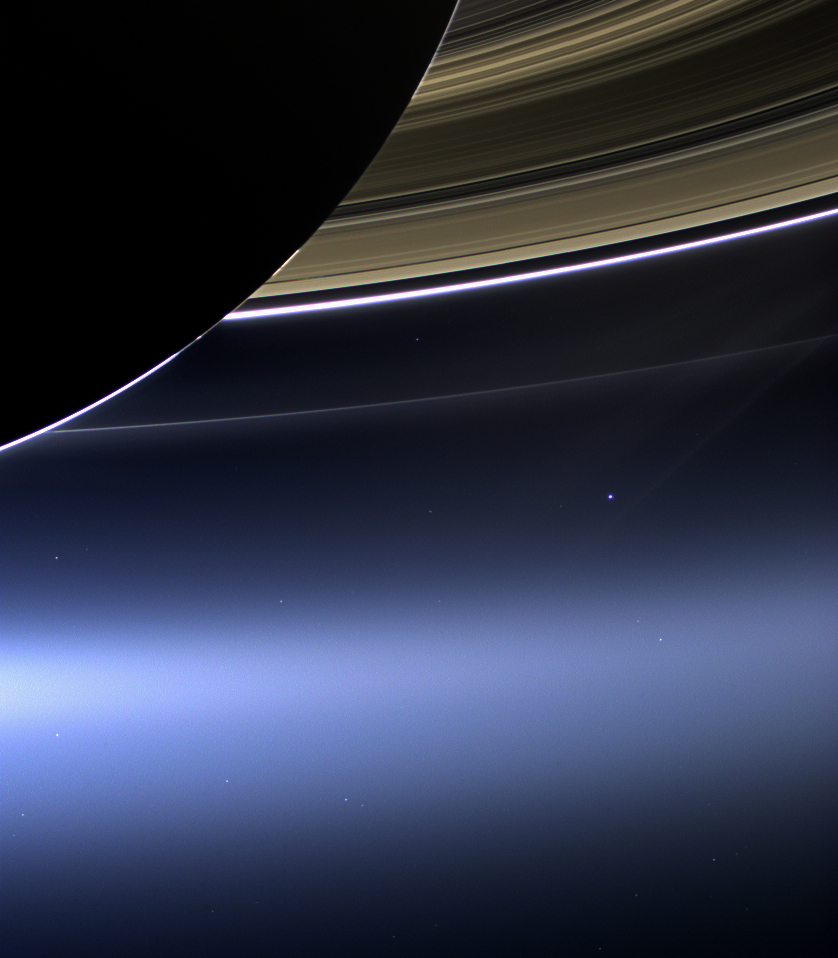
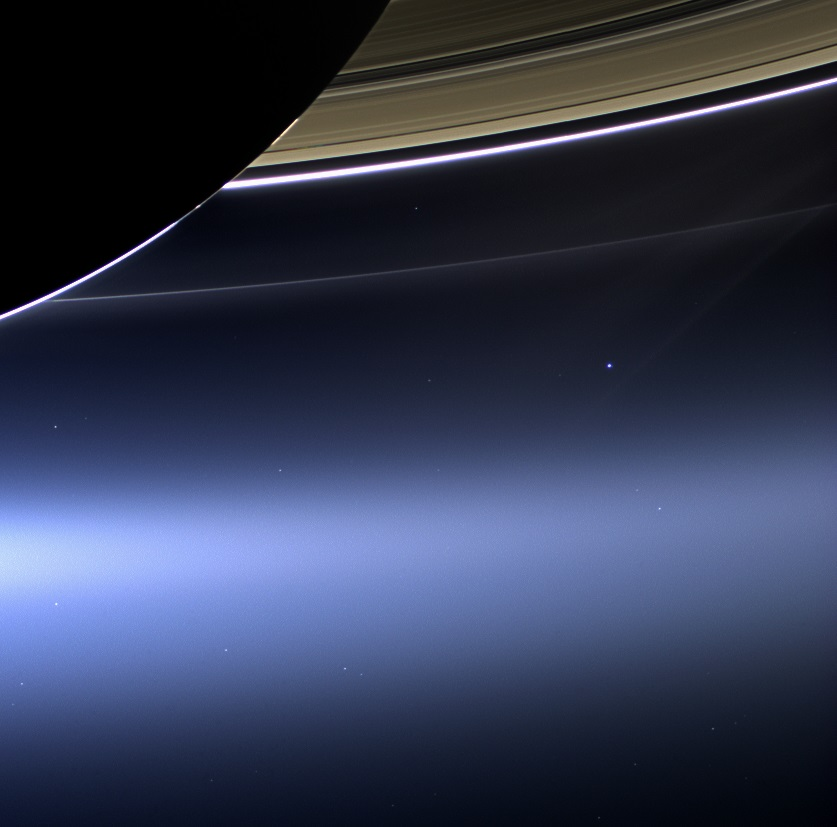
updates site background

diff --git a/index.html b/index.html
@@ -12,13 +12,14 @@
     <script src="https://code.jquery.com/jquery-3.5.1.min.js" integrity="sha256-9/aliU8dGd2tb6OSsuzixeV4y/faTqgFtohetphbbj0=" crossorigin="anonymous"></script>
     <script type="text/javascript">
         $(function(){ $("head").load("head.html") });
+        $(function(){ $("#about-me").load("./subsections/about-me.html") });
         $(function(){ $("#resume").load("./subsections/resume.html") });
         $(function(){ $("#cv").load("./subsections/cv.html") });
         $(function(){ $("#coursework").load("./subsections/coursework.html") });
         $(function(){ $("#contact").load("./subsections/contact.html") });
    </script>
   </head>
-  <body>
+  <body class="body-background">
     <div class="container" role="main">
         <div class="head-buffer">
             <div class="text-center">
@@ -36,14 +37,14 @@
 
                 <!-- NAVIGATION TABS -->
                 <ul class="nav nav-tabs nav-justified">
+                   <!-- About me -->
+                   <li class="nav-item active">
+                     <a class="nav-link pill-link active" data-toggle="tab" href="#about-me">About Me</a>
+                   </li>
                   <!-- Resume -->
-                  <li class="nav-item active ">
-                    <a class="nav-link pill-link active" data-toggle="tab" href="#resume">Resume</a>
+                  <li class="nav-item">
+                    <a class="nav-link pill-link" data-toggle="tab" href="#resume">Resume</a>
                   </li>
-                  <!-- CV -->
-                  <!-- <li class="nav-item">
-                    <a class="nav-link pill-link" data-toggle="tab" href="#cv">Full CV</a>
-                  </li> -->
                   <!-- Coursework -->
                   <li class="nav-item">
                     <a class="nav-link pill-link" data-toggle="tab" href="#coursework">Coursework</a>
@@ -57,7 +58,9 @@
             </div>
             <!-- TAB CONTENT -->
             <div id="tab_data" class="tab-content">
-              <div class="tab-pane container fade-in-fast active" id="resume">
+              <div class="tab-pane container fade-in-fast active" id="about-me">
+              </div>
+              <div class="tab-pane container fade-in-fast" id="resume">
               </div>
               <div class="tab-pane container fade-in-fast" id="cv">
               </div>
@@ -71,13 +74,12 @@
 
     </div>
 
+    <footer class="hidden-print">
+      <script type="text/javascript">
+        $(function(){$("footer").load("footer.html");});
+      </script>
+    </footer>
   </body>
 
-
-  <footer class="hidden-print">
-    <script type="text/javascript">
-      $(function(){$("footer").load("footer.html");});
-    </script>
-  </footer>
 
 </html>

diff --git a/subsections/carousel.html b/subsections/carousel.html
@@ -1,0 +1,37 @@
+<div id="demo" class="carousel slide" data-ride="carousel">
+  <ul class="carousel-indicators">
+    <li data-target="#demo" data-slide-to="0" class="active"></li>
+    <li data-target="#demo" data-slide-to="1"></li>
+    <li data-target="#demo" data-slide-to="2"></li>
+  </ul>
+  <div class="carousel-inner">
+    <div class="carousel-item active">
+      <img src="assets/ip.png" alt="Los Angeles" width="1100" height="500">
+      <div class="carousel-caption d-none d-md-block bg-dark mb-4">
+        <h3>Developing Software for Scientists</h3>
+        <p>A lack of software education in science can hold back research.
+            Learn about how I address this through my python library <i><b>ImagePypelines</b></i></p>
+      </div>
+    </div>
+    <div class="carousel-item">
+      <img src="assets/pale_blue_dot.jpg" alt="Chicago" width="1100" height="500">
+      <div class="carousel-caption d-none d-md-block bg-dark mb-4">
+        <h3>Chicago</h3>
+        <p>Thank you, Chicago!</p>
+      </div>
+    </div>
+    <div class="carousel-item">
+      <img src="assets/pale_blue_dot.jpg" alt="New York" width="1100" height="500">
+      <div class="carousel-caption d-none d-md-block bg-dark mb-4">
+        <h3>New York</h3>
+        <p>We love the Big Apple!</p>
+      </div>
+    </div>
+  </div>
+  <a class="carousel-control-prev" href="#demo" data-slide="prev">
+    <span class="carousel-control-prev-icon"></span>
+  </a>
+  <a class="carousel-control-next" href="#demo" data-slide="next">
+    <span class="carousel-control-next-icon"></span>
+  </a>
+</div>

diff --git a/subsections/about-me.html b/subsections/about-me.html
@@ -1,0 +1,36 @@
+
+<div class="container about-me head-buffer">
+    <!-- General -->
+    <div class="row">
+        <!-- image -->
+        <div class="col-md-4">
+            <img class='proj-image' src="assets/telescope.jpg" alt="ImagePypelines">
+        </div>
+        <!-- image -->
+        <div class="col-md-8 about-me-blurb">
+            <p> 
+                I've love exoplanets! I've wanted to study them since I was in high school
+            <i>(back in the days when there weren't even 500 confirmed exoplanets)</i>.
+                I've tailored my academics towards this goal. I made a custom degree
+            at RIT for Experimental Astrophysics, where I take a combination of
+            <a>imaging science and physics courses</a>.
+            </p>
+            <p>
+                I'm a specialist in imaging and software design, and want to
+                put it to use in astronomy!
+            </p>
+            <p>
+                I'm a little older than most undergrads (24), and I've spent 3 years
+            working alongside school. I've developed processing pipelines and
+            a NIR spectrometer for an asteroid mining company, a machine learning
+            framework for a rochester imaging company, and spent a year developing
+            pipelines and instruments for a lab at the University of Rochester.
+            <i>(see my resume for details)</i>
+            </p>
+            <p>
+                I feel strongly about
+            </p>
+        </div>
+
+    </div>
+</div>

diff --git a/css/custom.css b/css/custom.css
@@ -1,7 +1,7 @@
 img {
     display: block;
-    max-width:324px;
-    max-height:324px;
+    /* max-width:324px;
+    max-height:324px; */
     width: auto;
     height: auto;
     margin: auto;
@@ -11,9 +11,62 @@ h2 span {
     display: block;
 }
 
+
+
+.about-me {
+    font-size: 15px;
+}
+
+.about-me-blurb {
+  text-indent: 2em;
+  line-height: 1.6;
+}
+
+.body-background {
+    /* background-image: 'assets/pale_blue_dot.jpg'; */
+    /* background: #212529; */
+    background-image: url("../assets/pale_blue_dot.jpg");
+    background-repeat: no-repeat;
+    background-size: cover;
+}
+
+.copyright-footer {
+    color: #fcfcfc;
+}
+
+.container {
+    background: #fcfcfc;
+}
+
+.carousel-caption {
+    position: relative;
+    left: 0;
+    top: 0;
+}
+
 .proj {
     padding-left: 2%;
     padding-bottom: 1vh;
+}
+
+.proj-image {
+    height:100%;
+    width:100%;
+}
+
+.carousel-inner img {
+    width: 100%;
+    height: 40%;
+    max-height: 643px;
+    display: block;
+    border-color: #d9230f;
+    border-width: 2px;
+    border-style: solid;
+  }
+
+.carousel-item {
+    /* background-color: #a6a19f; */
+    /* height: 60vh; */
 
 }
 
@@ -62,6 +115,10 @@ h2 span {
 
 .head-buffer {
     padding-top: 3vh
+}
+
+.bottom-buffer {
+    padding-bottom: 3vh
 }
 
 .head-buffer-2 {

diff --git a/subsections/resume.html b/subsections/resume.html
@@ -1,5 +1,10 @@
-
 <div class="resume">
+    <!-- Carousel -->
+    <!-- <div id='proj-carousel'>
+        <script>$(function(){ $("#proj-carousel").load("./subsections/carousel.html") });</script>
+    </div> -->
+
+    <!-- Download Button -->
     <div class="resume-button-container">
         <a class="btn btn-primary" href="assets/Jeff-Maggio-Resume.pdf" role="button">Download as PDF</a>
 

diff --git a/subsections/contact.html b/subsections/contact.html
@@ -1,5 +1,5 @@
 <!-- EMAIL -->
-<div class="head-buffer container">
+<div class="head-buffer bottom-buffer container">
 
     <div class="row head-buffer justify-content-md-center">
 
@@ -26,7 +26,7 @@
             </div>
         </div>
     </div>
-    
+
     <div class="row head-buffer-2 justify-content-md-center">
         <!-- GITHUB -->
         <div class="col-md-4">

diff --git a/subsections/coursework.html b/subsections/coursework.html
@@ -1,4 +1,4 @@
-<div class="head-buffer">
+<div class="head-buffer bottom-buffer">
 
     <h4 class="text-center">My customized degree is composed of half <b>imaging science</b> coursework and half <b>physics/astronomy</b> coursework</h4>
     <div class="row">

diff --git a/footer.html b/footer.html
@@ -1,1 +1,1 @@
-  <p class="footer-element text-right">&copy; 2020 Jeff Maggio</p>
+  <p class="footer-element text-right copyright-footer">&copy; 2020 Jeff Maggio</p>
